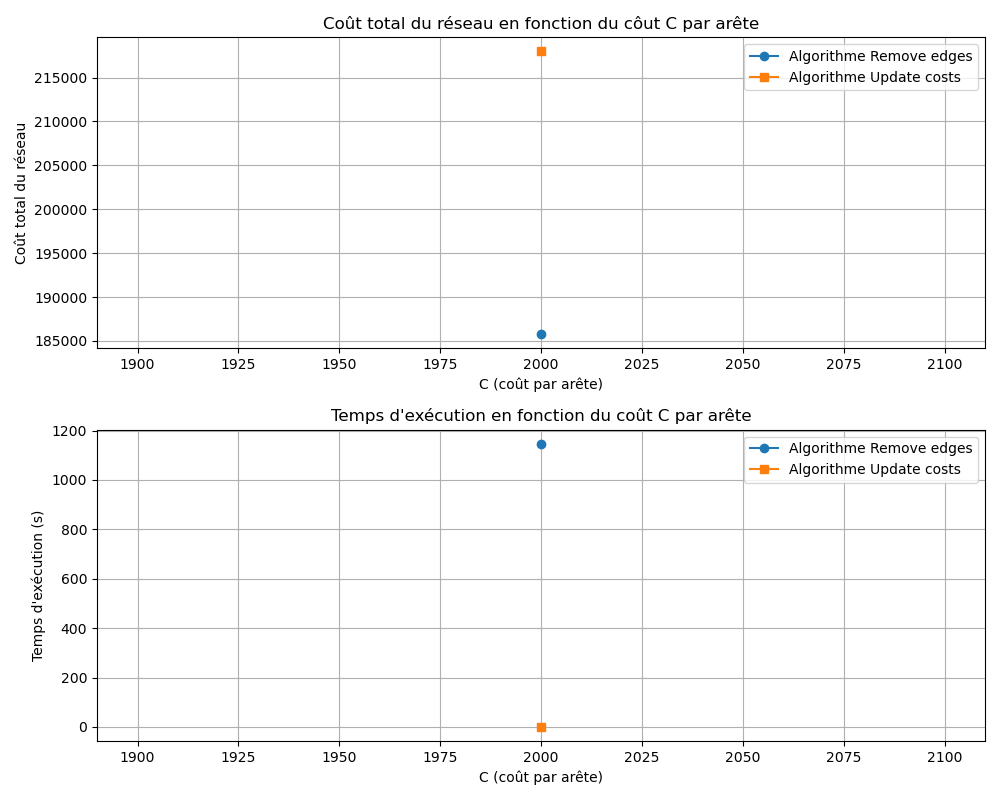
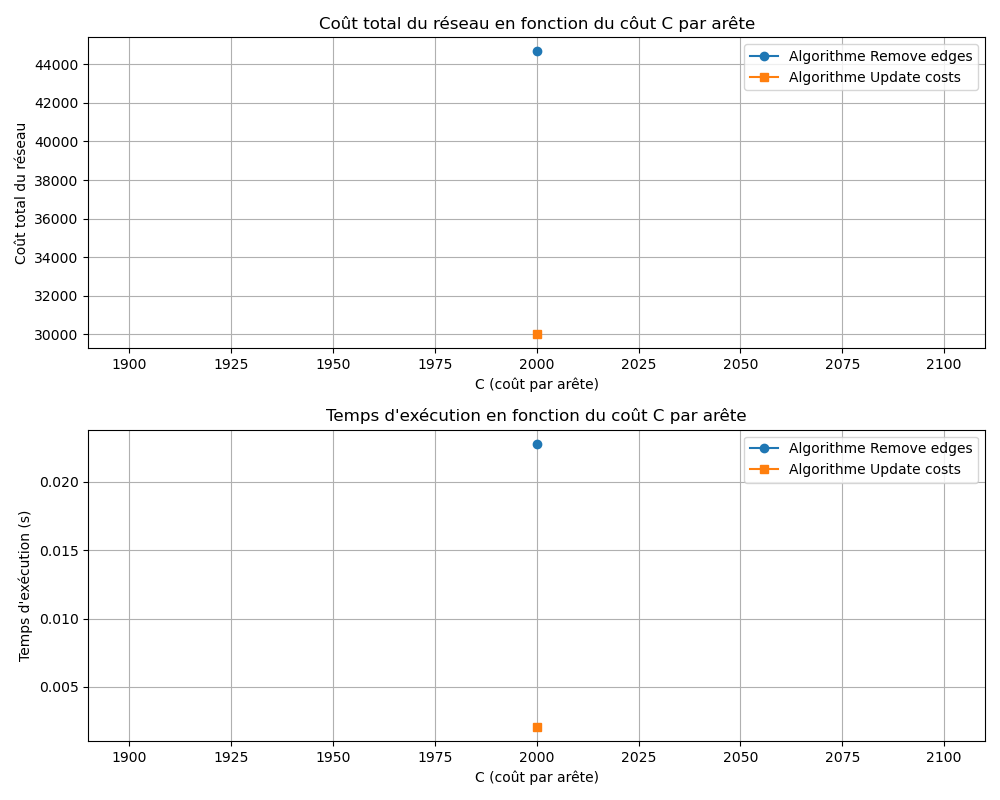
amélioration des graphes

diff --git a/Python_files/comparaison_graphs.py b/Python_files/comparaison_graphs.py
@@ -15,7 +15,7 @@ routes_csv = "../basic_datasets/pre_existing_routes.csv"
 airport_graph = create_airport_graph(airports_csv, routes_csv)
 
 # Paramètres fixes
-j = 500  # Nombre de paires de destinations
+j = 20  # Nombre de paires de destinations
 C_values = [2000]  # Coût d'ajout d'une arête supplémentaire
 num_runs = 5  # Nombre d'exécutions pour la moyenne
 
@@ -63,8 +63,8 @@ for n in n_values:
     multi_astar_means_costs_nodes.append(np.mean(multi_astar_costs))
 
 # Comparaison en fonction du nombre d'arêtes avec un nombre de nœuds fixe
-m_values = [100, 250, 500, 750, 1000, 1250, 1500]
-n_fixed = 70  # Nombre de nœuds constant
+m_values = [20, 30, 40]
+n_fixed = 30  # Nombre de nœuds constant
 
 astar_means_times_edges = []
 multi_astar_means_times_edges = []
@@ -106,9 +106,9 @@ for m in m_values:
 
 
 # Comparaison en fonction du nombre de trajets requis
-j_values = [10, 50, 100, 200, 500]
-m_fixed = 1000  # Nombre d'arêtes constant
-n_fixed = 70  # Nombre de nœuds constant
+j_values = [10, 10, 10, 10, 10]
+m_fixed_for_j = 40  # Nombre d'arêtes constant
+n_fixed_for_j = 20  # Nombre de nœuds constant
 
 astar_means_times_j = []
 multi_astar_means_times_j = []
@@ -124,7 +124,7 @@ for j in j_values:
     print("\n### Test avec j =", j)
 
     for _ in range(num_runs):
-        random_subgraph = create_random_subgraph(airport_graph, n_fixed, m_fixed)
+        random_subgraph = create_random_subgraph(airport_graph, n_fixed_for_j, m_fixed_for_j)
         destination_pairs = generate_random_pairs(random_subgraph, j)
 
         start_time = time.time()
@@ -165,6 +165,10 @@ plt.ylabel("Coût total du réseau")
 plt.title("Coût du réseau en fonction du nombre de nœuds")
 plt.legend()
 plt.grid()
+info_text = "Paramètres fixes :\n- |E| = {m_fixed}\n- |J| = {j}\n- C = {C}".format(m_fixed=m_fixed, j=j, C=C_values[0])
+plt.annotate(info_text, xy=(0.1, 0.1), xycoords='axes fraction',
+             fontsize=10, bbox=dict(boxstyle="round", facecolor="white", alpha=0.5))
+
 
 # Temps d'exécution en fonction du nombre de nœuds
 plt.subplot(2, 2, 2)
@@ -175,6 +179,10 @@ plt.ylabel("Temps d'exécution (s)")
 plt.title("Temps d'exécution en fonction du nombre de nœuds")
 plt.legend()
 plt.grid()
+info_text = "Paramètres fixes :\n- |E| = {m_fixed}\n- |J| = {j}\n- C = {C}".format(m_fixed=m_fixed, j=j, C=C_values[0])
+plt.annotate(info_text, xy=(0.1, 0.1), xycoords='axes fraction',
+             fontsize=10, bbox=dict(boxstyle="round", facecolor="white", alpha=0.5))
+
 
 # Coût en fonction du nombre d'arêtes
 plt.subplot(2, 2, 3)
@@ -185,6 +193,10 @@ plt.ylabel("Coût total du réseau")
 plt.title("Coût total du réseau en fonction du nombre d'arêtes")
 plt.legend()
 plt.grid()
+info_text = "Paramètres fixes :\n- |V| = {n_fixed}\n- |J| = {j}\n- C = {C}".format(n_fixed=n_fixed, j=j, C=C_values[0])
+plt.annotate(info_text, xy=(0.1, 0.1), xycoords='axes fraction',
+             fontsize=10, bbox=dict(boxstyle="round", facecolor="white", alpha=0.5))
+
 
 # Temps d'exécution en fonction du nombre d'arêtes
 plt.subplot(2, 2, 4)
@@ -195,6 +207,10 @@ plt.ylabel("Temps d'exécution (s)")
 plt.title("Temps d'exécution en fonction du nombre d'arêtes")
 plt.legend()
 plt.grid()
+info_text = "Paramètres fixes :\n- |V| = {n_fixed}\n- |J| = {j}\n- C = {C}".format(n_fixed=n_fixed, j=j, C=C_values[0])
+plt.annotate(info_text, xy=(0.1, 0.1), xycoords='axes fraction',
+             fontsize=10, bbox=dict(boxstyle="round", facecolor="white", alpha=0.5))
+
 
 plt.tight_layout()
 plt.savefig("comparaison_noeuds_aretes.png")
@@ -214,6 +230,10 @@ plt.ylabel("Coût total du réseau")
 plt.title("Coût total du réseau en fonction du nombre de trajets")
 plt.legend()
 plt.grid()
+info_text = "Paramètres fixes :\n- |V| = {n_fixed_for_j}\n- |E| = {m_fixed_for_j}\n- C = {C}".format(n_fixed_for_j=n_fixed_for_j, m_fixed_for_j=m_fixed_for_j, C=C_values[0])
+plt.annotate(info_text, xy=(0.1, 0.1), xycoords='axes fraction',
+             fontsize=10, bbox=dict(boxstyle="round", facecolor="white", alpha=0.5))
+
 
 # Temps d'exécution en fonction du nombre de trajets    
 plt.subplot(1, 2, 2)
@@ -224,6 +244,9 @@ plt.ylabel("Temps d'exécution (s)")
 plt.title("Temps d'exécution en fonction du nombre de trajets")
 plt.legend()
 plt.grid()
+info_text = "Paramètres fixes :\n- |V| = {n_fixed_for_j}\n- |E| = {m_fixed_for_j}\n- C = {C}".format(n_fixed_for_j=n_fixed_for_j, m_fixed_for_j=m_fixed_for_j, C=C_values[0])
+plt.annotate(info_text, xy=(0.1, 0.1), xycoords='axes fraction',
+             fontsize=10, bbox=dict(boxstyle="round", facecolor="white", alpha=0.5))
 
 plt.tight_layout()
 plt.savefig("all_data.png")
@@ -268,6 +291,9 @@ plt.ylabel("Coût total du réseau")
 plt.title("Coût total du réseau en fonction du côut C par arête")
 plt.legend()
 plt.grid()
+info_text = "Paramètres fixes :\n- |V| = {n_fixed_for_j}\n- |E| = {m_fixed_for_j}\n- |J| = {j}".format(n_fixed_for_j=n_fixed_for_j, m_fixed_for_j=m_fixed_for_j, j=j)
+plt.annotate(info_text, xy=(0.1, 0.1), xycoords='axes fraction',
+             fontsize=10, bbox=dict(boxstyle="round", facecolor="white", alpha=0.5))
 
 # Comparaison des temps d'exécution
 plt.subplot(2, 1, 2)
@@ -278,6 +304,9 @@ plt.ylabel("Temps d'exécution (s)")
 plt.title("Temps d'exécution en fonction du coût C par arête")
 plt.legend()
 plt.grid()
+info_text = "Paramètres fixes :\n- |V| = {n_fixed_for_j}\n- |E| = {m_fixed_for_j}\n- |J| = {j}".format(n_fixed_for_j=n_fixed_for_j, m_fixed_for_j=m_fixed_for_j, j=j)
+plt.annotate(info_text, xy=(0.1, 0.1), xycoords='axes fraction',
+             fontsize=10, bbox=dict(boxstyle="round", facecolor="white", alpha=0.5))
 
 plt.tight_layout()
 plt.savefig("comparaison_C.png")
